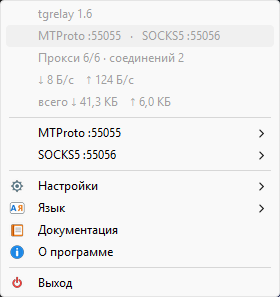
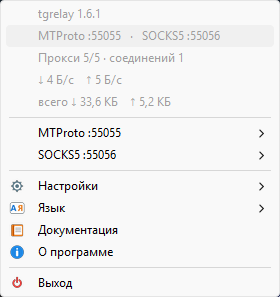
Перезапуск после правки конфига (1.6.1)
- новая копия больше не открывает порты, пока работает старая: проверка
  единственного экземпляра перенесена ДО запуска серверов, новая копия
  ждёт освобождения портов (TGRELAY_HANDOFF)
- из-за этого после «Редактировать конфиг» → сохранение → закрытие Блокнота
  программа закрывалась и не поднималась: новая копия молча падала на
  занятых портах, старая уже вышла
- ошибки запуска теперь показываются окном, а не теряются без консоли
- команда tgrelay restart (перезапуск с треем)
- при перезапуске иконка снимается, а не остаётся призраком
- версия 1.6.1, скриншот меню и документация обновлены

diff --git a/go/ui_windows.go b/go/ui_windows.go
@@ -14,7 +14,7 @@ import (
 
 // runUI запускает трей (или ждёт сигнала в режиме --headless).
 func runUI(app *App, headless bool) {
-	if headless || !singleInstance() {
+	if headless {
 		printLinks(app)
 		select {}
 	}
@@ -39,6 +39,21 @@ func printLinks(app *App) {
 }
 
 var lockHandle uintptr
+
+// takeOver занимает слот единственного экземпляра до запуска серверов.
+// При перезапуске из меню новая копия ждёт, пока старая отпустит порты.
+func takeOver(headless bool) bool {
+	if headless {
+		return true
+	}
+	return singleInstance()
+}
+
+// showError показывает ошибку окном: у GUI-сборки нет консоли, и без этого
+// неудачный запуск (например, битый конфиг) выглядел бы как «программа закрылась».
+func showError(text string) {
+	messageBox(text, "tgrelay", 0x10)
+}
 
 // singleInstance: один экземпляр на сессию; при TGRELAY_HANDOFF=1 ждём до 15 с.
 func singleInstance() bool {

diff --git a/go/app.go b/go/app.go
@@ -241,6 +241,10 @@ const ctlName = "tgrelay.ctl"
 // чтобы иконка исчезла и ресурсы освободились штатно. nil — интерфейса нет.
 var quitUI func() bool
 
+// uiRestart — перезапуск с новым процессом (Windows). nil — платформа
+// перезапускается средствами службы (systemd) или просто завершается.
+var uiRestart func()
+
 func (a *App) startControl() {
 	path := filepath.Join(filepath.Dir(a.Path), ctlName)
 	listener, err := net.Listen("tcp", "127.0.0.1:0")
@@ -296,6 +300,17 @@ func (a *App) serveControl(listener net.Listener, token string) {
 					time.Sleep(200 * time.Millisecond)
 					if quitUI != nil && quitUI() {
 						return // трей закроется сам и снимет иконку
+					}
+					a.Stop()
+					os.Exit(0)
+				}()
+			case "restart":
+				fmt.Fprintln(c, "restarting")
+				go func() {
+					time.Sleep(200 * time.Millisecond)
+					if uiRestart != nil {
+						uiRestart()
+						return
 					}
 					a.Stop()
 					os.Exit(0)

diff --git a/go/cli.go b/go/cli.go
@@ -76,6 +76,15 @@ func runCLI(args []string, configPath string) bool {
 		fmt.Print(out)
 		return true
 
+	case "restart":
+		out, err := controlClient(ctlPath, "restart")
+		if err != nil {
+			fmt.Println("ошибка:", err)
+			return true
+		}
+		fmt.Print(out)
+		return true
+
 	case "log":
 		tailLog(logPath, args[1:])
 		return true
@@ -115,6 +124,7 @@ func printHelp() {
   status           состояние работающего экземпляра
   links            ссылки для Telegram
   reload           перечитать конфиг и перезапустить прокси на месте
+  restart          перезапустить программу (Windows — с треем)
   stop             остановить работающий экземпляр
   log [-f] [-n N]  показать лог (по умолчанию 40 строк, -f — следить)
   config           путь к конфигу; config edit — открыть в редакторе

diff --git a/go/main.go b/go/main.go
@@ -1,7 +1,6 @@
 package main
 
 import (
-	"fmt"
 	"os"
 	"path/filepath"
 )
@@ -44,17 +43,26 @@ func runServer(configPath string, headless bool) {
 	}
 	path = createdPath
 
+	// При перезапуске из меню предыдущая копия ещё держит порты. Ждём её
+	// завершения до того, как открывать свои, иначе новый экземпляр падает
+	// с «address already in use», а старый уже вышел.
+	if !takeOver(headless) {
+		return
+	}
+
 	initLog(filepath.Join(filepath.Dir(path), "tgrelay.log"))
 
 	app, err := NewApp(path)
 	if err != nil {
-		fmt.Fprintln(os.Stderr, err)
+		logf("ошибка конфига: %v", err)
+		showError(err.Error())
 		os.Exit(1)
 	}
 	appInstance = app
 
 	if err := app.Start(); err != nil {
-		fmt.Fprintln(os.Stderr, err)
+		logf("ошибка запуска: %v", err)
+		showError(err.Error())
 		os.Exit(1)
 	}
 	defer app.Stop()

diff --git a/go/tray.go b/go/tray.go
@@ -38,6 +38,7 @@ func newTray(app *App) *tray {
 	}
 	t.init()
 	quitUI = t.requestClose
+	uiRestart = restartSelf
 	return t
 }
 
@@ -470,11 +471,22 @@ func restartSelf() {
 	time.Sleep(500 * time.Millisecond)
 	exe, err := os.Executable()
 	if err != nil {
+		logf("перезапуск: не найден exe: %v", err)
+		restarting.Store(false)
 		return
 	}
 	env := append(os.Environ(), "TGRELAY_HANDOFF=1")
 	cmd := &execSpec{path: exe, env: env, dir: filepath.Dir(exe)}
-	startDetached(cmd)
+	if err := startDetached(cmd); err != nil {
+		logf("перезапуск не удался: %v", err)
+		messageBox("Restart: "+err.Error(), "tgrelay", 0x10)
+		restarting.Store(false)
+		return
+	}
+	logf("перезапуск: запущена новая копия")
+	if activeTray != nil {
+		activeTray.removeIcon()
+	}
 	os.Exit(0)
 }
 

diff --git a/go/ui_headless.go b/go/ui_headless.go
@@ -9,9 +9,14 @@ import (
 	"syscall"
 )
 
+// takeOver: на Linux единственный экземпляр не ограничиваем.
+func takeOver(headless bool) bool { return true }
+
+// showError сообщает об ошибке в консоль (на Windows — окном).
+func showError(text string) { fmt.Fprintln(os.Stderr, text) }
+
 // runUI без трея: печатаем ссылки и ждём SIGINT/SIGTERM.
-func runUI(app *App, headless bool) {
-	fmt.Println("tgrelay " + version)
+func runUI(app *App, headless bool) {	fmt.Println("tgrelay " + version)
 	fmt.Print(app.Links())
 	fmt.Println()
 

diff --git a/go/clipboard_windows.go b/go/clipboard_windows.go
@@ -50,9 +50,9 @@ type execSpec struct {
 	dir  string
 }
 
-func startDetached(spec *execSpec) {
+func startDetached(spec *execSpec) error {
 	cmd := exec.Command(spec.path)
 	cmd.Env = spec.env
 	cmd.Dir = spec.dir
-	_ = cmd.Start()
+	return cmd.Start()
 }

diff --git a/go/core.go b/go/core.go
@@ -15,7 +15,7 @@ import (
 const (
 	configName = "tgrelay.txt"
 	repoURL    = "https://github.com/mikech76/tgrelay"
-	version    = "1.6"
+	version    = "1.6.1"
 )
 
 var appContext, cancelApp = context.WithCancel(context.Background())

diff --git a/go/README.ru.md b/go/README.ru.md
@@ -166,6 +166,7 @@ tgrelay run             # то же самое, явно
 tgrelay status          # pid, режим, порты, uptime, соединения, трафик, пользователи
 tgrelay links           # ссылка для каждого ключа MTProto и каждой учётной записи SOCKS5
 tgrelay reload          # перечитать конфиг и перезапустить прокси и порты на месте
+tgrelay restart         # полный перезапуск программы (вместе с треем)
 tgrelay stop            # аккуратно остановить
 tgrelay log -n 50       # последние строки tgrelay.log
 tgrelay log -f          # следить за логом (как tail -f)

diff --git a/go/README.md b/go/README.md
@@ -165,6 +165,7 @@ tgrelay run             # same, explicit
 tgrelay status          # pid, mode, ports, uptime, connections, traffic, users
 tgrelay links           # a Telegram link for every MTProto key and SOCKS5 account
 tgrelay reload          # re-read the config, restart proxies and ports in place
+tgrelay restart         # full restart of the program (tray included)
 tgrelay stop            # graceful stop
 tgrelay log -n 50       # last lines of tgrelay.log
 tgrelay log -f          # follow the log (like tail -f)
